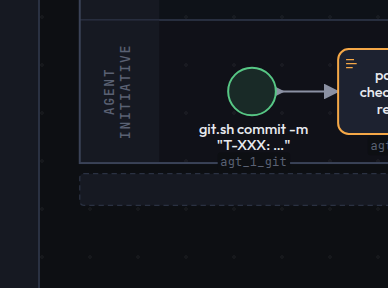
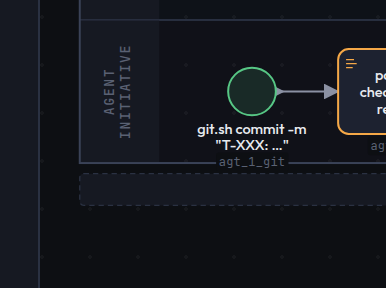
T-1068: reviewer AMBER acted on — wrapped label blocks were built on the single line's nudged x and landed on the next task box; built on the node's centre, the header nudge is unconditional again: 0 labels on the header and 0 under a shape on the corpus at sizes S/M/L; corpus leg C3 tightened to 0 

diff --git a/src/aef-workflow-designer.html b/src/aef-workflow-designer.html
@@ -4043,7 +4043,8 @@ function adjustLabelPlacements() {
     }
     return count;
   };
-  // T-1068: a line drawn UNDER a node's shape is hidden, and costs 4. The looser zone around a
+  // T-1068: a line drawn UNDER a node's shape is hidden, and costs 10, more than any misplacement of
+  // a whole block (reviewer on T-601: three labels moved under a task box). The looser zone around a
   // neighbour (4px margin, down to the bottom of its own label and badge) keeps its old cost of 1:
   // at weight 4 that zone alone kept "Investigation requested" on the header strip, though the
   // nudged block read clean. The node's own shape counts too (its own label area does not); the
@@ -4053,10 +4054,10 @@ function adjustLabelPlacements() {
     let cost = 0;
     for (const n of state.nodes) {
       const d = NODE_DEFAULTS[n.type];
-      if (n === self) { if (onShape(r, n, d)) cost += 6; continue; }
+      if (n === self) { if (onShape(r, n, d)) cost += 10; continue; }
       if (n.x + d.w + 4 < r.x1 || n.x - 4 > r.x2) continue;
       if (nodeVisualBottom(n) < r.y1 || n.y - 4 > r.y2) continue;
-      cost += onShape(r, n, d) ? 6 : 1;
+      cost += onShape(r, n, d) ? 10 : 1;
     }
     return cost;
   };
@@ -4086,13 +4087,13 @@ function adjustLabelPlacements() {
     // bands a line touches only caught a line straddling a divider; a line sitting wholly in the
     // NEXT lane touched one band and scored 0, which is the worst case — it attributes the step
     // to the wrong actor. r is padded by 1px, hence the tolerance.
-    // T-1068 (reviewer on T-601, session-capture g_found): weighted 2, not 1. At 1 a wrapped
+    // T-1068 (reviewer on T-601, session-capture g_found): weighted 3, not 1. At 1 a wrapped
     // block whose id badge sat on the divider beat a single in-lane line crossing one edge.
-    // Weights per line (T-1068, chosen on the 24-map corpus against the pre-T-601 placement of every
-    // label): edge crossing 1, outside the pool 1, header strip 2, outside its own lane 2, under
-    // another node's shape 4. Hidden text is the worst; a below block hanging into the next lane is
-    // a trade the reviewer accepted; the header only where nothing else is legible.
-    if (own) { if (r.y1 < own.y1 - 1 || r.y2 > own.y2 + 1) c += 2; }           // outside its own lane
+    // Weights per line (T-1068, chosen on the 24-map corpus at label sizes S/M/L against the pre-T-601
+    // placement of every label): edge crossing 1, outside the pool 1, header strip 2 (rarely reached:
+    // bboxScore nudges first), outside its own lane 3, under a shape 10. Hidden text is the worst; a
+    // below block hanging into the next lane is the fallback the reviewer accepted.
+    if (own) { if (r.y1 < own.y1 - 1 || r.y2 > own.y2 + 1) c += 3; }           // outside its own lane
     else {
       let touched = 0;
       for (const b of laneBands) if (r.y2 > b.y1 && r.y1 < b.y2) touched++;
@@ -4108,16 +4109,18 @@ function adjustLabelPlacements() {
     const cy = self.y + NODE_DEFAULTS[self.type].h / 2;
     return laneBands.find(b => cy >= b.y1 && cy < b.y2) || null;
   };
-  // T-1068 (reviewer F1 on T-601): a label block should not START on the lane header strip. Each
-  // candidate is nudged right by exactly the overrun, and the nudge is kept unless it HIDES more
-  // lines under a shape. Reviewer on T-601: unconditionally the nudge pushed blocks under the
-  // neighbouring task box or onto the node's own shape (session-capture n_start, a start event at
-  // the header edge with no clean spot at all), and the header strip was the legible spot. Any
-  // lesser cost of the nudge (an edge, a neighbour's label zone) is accepted to clear the header.
+  // T-1068 (reviewer F1 on T-601): a label block never STARTS on the lane header strip. Every
+  // candidate is nudged right by exactly its overrun BEFORE it is scored, so it is judged where it
+  // will be drawn. A label with nowhere clean to go therefore falls back to a wrapped block below
+  // its shape, hanging into the next lane if it must, never to the header (reviewer on T-601,
+  // AMBER: session-capture n_start sat on the header although that block was legible).
   const headerEdge = px + LANE_HEADER + 1;
-  // nodeOverlaps carries its own weights: under a shape 4 (reviewer on T-601: at 1 it lost to the
-  // header and out-of-pool, and three labels legible on the header strip moved under a task box).
-  const rawScore = (els, self) => {
+  const bboxScore = (els, self) => {
+    if (hasPool) {
+      let x1 = Infinity;
+      for (const t of els) { const bb = t.getBBox(); if (bb.width) x1 = Math.min(x1, bb.x); }
+      if (x1 < headerEdge) for (const t of els) t.setAttribute('x', (+t.getAttribute('x') + headerEdge - x1).toFixed(1));
+    }
     let sc = 0;
     const own = ownBand(self);
     for (const t of els) {
@@ -4127,31 +4130,6 @@ function adjustLabelPlacements() {
       sc += segCrossings(r) + nodeOverlaps(r, self) + poolPenalty(r, own);
     }
     return sc;
-  };
-  const hiddenLines = (els, self) => {
-    let h = 0;
-    for (const t of els) {
-      const bb = t.getBBox();
-      if (bb.width === 0) continue;
-      const r = { x1: bb.x - 1, x2: bb.x + bb.width + 1, y1: bb.y - 1, y2: bb.y + bb.height + 1 };
-      if (state.nodes.some(n => onShape(r, n, NODE_DEFAULTS[n.type]))) h++;
-    }
-    return h;
-  };
-  const shift = (els, dx) => { for (const t of els) t.setAttribute('x', (+t.getAttribute('x') + dx).toFixed(1)); };
-  // Leaves els at the better of the two positions and returns its score.
-  const bboxScore = (els, self) => {
-    const s0 = rawScore(els, self);
-    if (!hasPool) return s0;
-    let x1 = Infinity;
-    for (const t of els) { const bb = t.getBBox(); if (bb.width) x1 = Math.min(x1, bb.x); }
-    if (!(x1 < headerEdge)) return s0;
-    const h0 = hiddenLines(els, self);
-    shift(els, headerEdge - x1);
-    const s1 = rawScore(els, self);
-    if (hiddenLines(els, self) <= h0) return s1;
-    shift(els, x1 - headerEdge);
-    return s0;
   };
   for (const n of state.nodes) {
     if (!isLabelBelow(n)) continue;
@@ -4207,20 +4185,25 @@ function adjustLabelPlacements() {
     // not help is undone. Render-only (PD-044): state.nodes is never modified.
     const isName = t => t.getAttribute('class') === 'node-label';
     const LHW = { s: 11, m: 12, l: 14 }[labelPrefs.size];
+    // T-1068 (reviewer on T-601, session-capture n_start): build the block on the node's centre, not
+    // on orig[0].x. orig is the single line AFTER its header nudge (58px for a 150px line), so every
+    // wrapped block inherited that nudge and landed on the next task box; bboxScore gives each block
+    // only the nudge it needs itself.
+    const cx = n.x + d.w / 2;
     const rebuildName = (lines) => {
       const names = els.filter(isName), idEl = els.find(t => !isName(t));
       const g = names[0].parentNode;
       names.forEach(t => t.remove());
       const made = lines.map((line, i) => {
-        const t = el('text', { x: orig[0].x, y: +orig[0].y + i * LHW, class: 'node-label',
+        const t = el('text', { x: cx, y: +orig[0].y + i * LHW, class: 'node-label',
                                'text-anchor': 'middle', 'data-nl': n.uid }, [text(line)]);
         if (idEl && idEl.parentNode === g) g.insertBefore(t, idEl); else g.appendChild(t);
         return t;
       });
       if (idEl) {
-        idEl.setAttribute('x', orig[orig.length - 1].x);
+        idEl.setAttribute('x', cx);
         idEl.setAttribute('y', +orig[0].y + lines.length * LHW);
-        idEl.setAttribute('text-anchor', orig[orig.length - 1].a);
+        idEl.setAttribute('text-anchor', 'middle');
       }
       els = made.concat(idEl ? [idEl] : []);
     };
@@ -4248,7 +4231,7 @@ function adjustLabelPlacements() {
     if (scRight < scDefault && scRight <= scLeft) { RIGHT(); continue; }
     els.forEach((t, i) => { t.setAttribute('x', orig[i].x); t.setAttribute('y', orig[i].y); t.setAttribute('text-anchor', orig[i].a); });
   }
-  // The winner is applied by restoring attributes, so judge the nudge once more on the final block:
+  // The winner is applied by restoring attributes, so nudge once more on the final block:
   // "Investigation requested" on the default map sat 5-9px on the header strip that way (T-1068 F1).
   for (const n of state.nodes)
     if (isLabelBelow(n)) bboxScore(Array.from(gNodes.querySelectorAll(`text[data-nl="${n.uid}"]`)), n);

diff --git a/.tasks/active/T-1068-t-601-lane-aware-labels-defaultbelow-pla.md b/.tasks/active/T-1068-t-601-lane-aware-labels-defaultbelow-pla.md
@@ -45,7 +45,7 @@ related_tasks: []
 #                                 # session from consuming the captured→started-work transition the demo
 #                                 # worker expects to drive. Origin OBS-057.
 created: 2026-10-06T09:49:30Z
-last_update: 2026-10-06T13:16:23Z
+last_update: 2026-10-06T14:00:12Z
 date_finished:
 # revisit_at: YYYY-MM-DD          # T-1451: set on DEFER decisions to enable G-053 daily revisit scan
 # revisit_evidence_needed:        # T-1451: one-line description of what evidence makes the revisit actionable
@@ -415,3 +415,23 @@ New leg `tools/_t1068-corpus-labels.mjs` (wired into the bridge): C1 nothing und
 four named labels, C3 at most 1 header label; self-test reverts the occlusion weights and C1/C2 FAIL.
 Note: placement depends on the viewport (the canvas width feeds contentRightEdge()); the leg uses
 the reviewer's 1600x1000 viewport. T-601's poison D now targets the nudge inside bboxScore.
+
+### 2026-10-06T15:30Z — reviewer AMBER (e21a395a) acted on: no label on the header [agent]
+Verdict `.context/reviews/evidence/T-601/AC1-judge-t-601-r1-f1fe3c29e5ad.md`: everything from the RED
+fixed, nothing regressed vs pre-T-601; one label (session-capture n_start) still on the header strip,
+which the Expected rules out, and a legible wrapped-below block was available (my "nothing else is
+readable" was wrong).
+Cause found: the T-1067 wrapped candidates were built on `orig[0].x`, the single line's position
+AFTER its 58px header nudge, so every wrapped block landed on the next task box. Fix: build on the
+node's centre. With that, the conditional nudge (keep the header unless the nudge hides text) was no
+longer needed and produced the remaining header labels at size L; the nudge is unconditional again.
+Final weights per line: edge 1, pool 1, header 2, outside own lane 3, under a shape 10.
+Corpus (141 labels, pre-T-601 → e21a395a → now): under 4 → 0 → 0; header 13 → 1 → **0**; lane
+26 → 7 → 7; pool 18 → 3 → 2; crossings 93 → 79 → 76. Sizes S and L: under 0, header 0.
+New problems vs pre-T-601: 3, all below blocks hanging into the next lane (n_send, accepted in the
+first review; git-commit-flow n_start, accepted in the AMBER; session-capture n_start, the fallback
+the AMBER prescribed). Stress run (73-char names): under 15 (pre-T-601 14, e21a395a 13), header 0.
+Legs: `_t1068-corpus-labels` C3 tightened to 0 header labels; 3 poison arms (occlusion weights,
+nudged rebuild, nudge removed). `_t600` arm A now removes both wrap paths (the T-1067 fallback wraps
+a long name on its own now that its block is placed right). Screenshots re-read:
+docs/screenshots/T-1068/corpus/*-after.png, t601-after.png.
